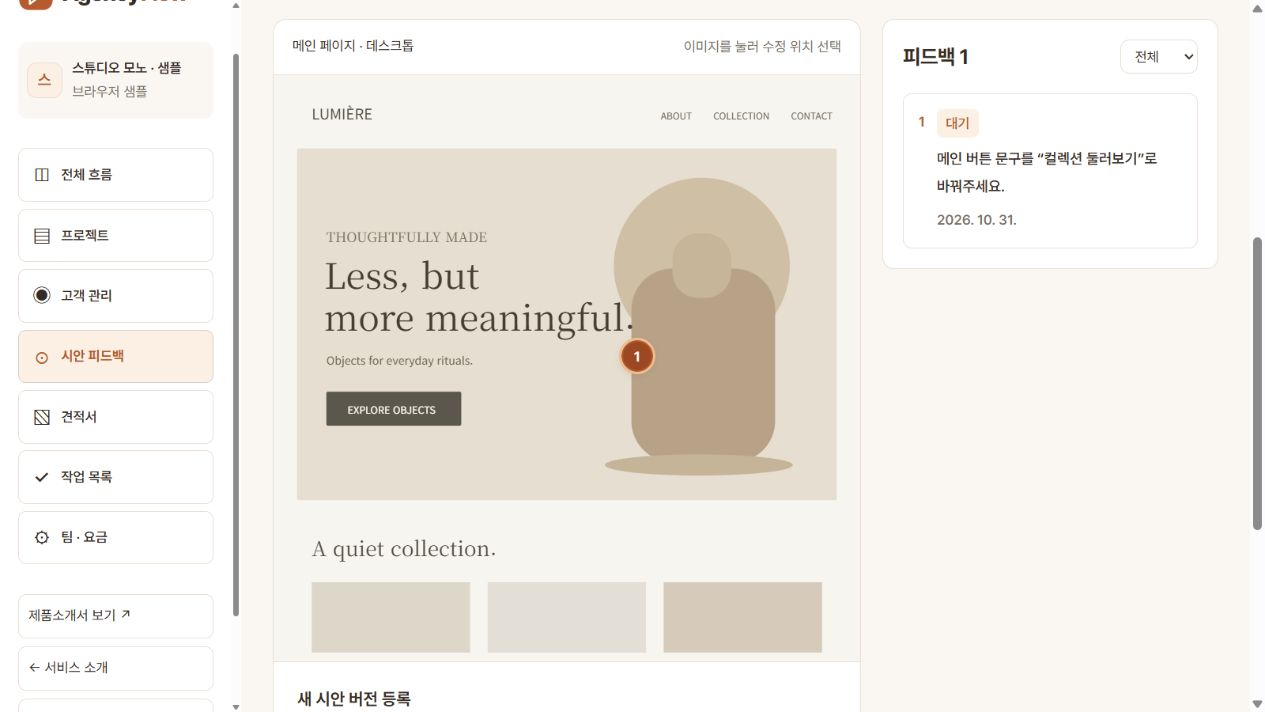
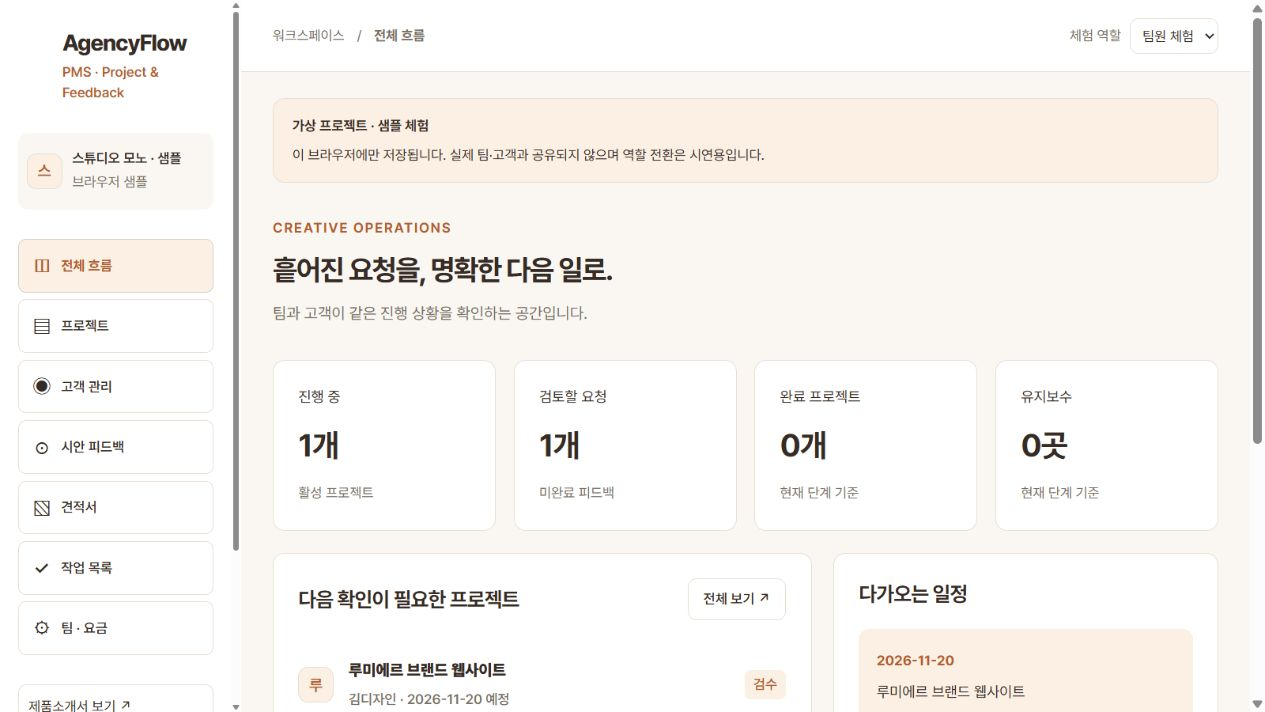
Label all products with ERP PMS CRM and Groupware categories

diff --git a/demos/weekly-report/workspace.js b/demos/weekly-report/workspace.js
@@ -30,14 +30,14 @@ const field=(name,label,type='text',value='',other='')=>`<label>${label}<input n
 function render(){
   if(!state){renderAuth();return;}
   const tabs=[['home','전체 업무','01'],['projects','고객 · 프로젝트','02'],['compose','새 보고서','03'],['reports','보고서 보관함','04'],['team','팀 · 권한','05'],['audit','변경 기록','06'],['help','사용 가이드','?']];
-  root.innerHTML=`<div class="shell" ${helpOpen?'inert':''}><aside class="rail"><a class="logo" href="/workspace"><img class="brand-image" src="/assets/flownote-logo.svg?v=3" alt="Flownote 로고" width="40" height="40"><span>flownote<small>고객 프로젝트 워크스페이스</small></span></a><div class="company"><span class="avatar">${e(state.company.name.slice(0,1))}</span><div><strong>${e(state.company.name)}</strong><small>${state.company.isDemo?'가상 자료 체험 회사':'로컬 저장 워크스페이스'}</small></div></div><nav>${tabs.map(([id,label,n])=>`<button data-nav="${id}" class="${view===id?'active':''}" ${id==='compose'&&!writer()?'disabled':''}><span>${n}</span>${label}${id==='reports'?`<i>${state.reports.length}</i>`:''}</button>`).join('')}</nav><div class="rail-bottom"><a class="button outline" href="https://flownote-studio.vercel.app/manuals/flownote-guide.pdf" target="_blank" rel="noopener noreferrer">제품소개서 보기 ↗</a><div class="storage-dot">SQLite에 실제 저장</div><p>로컬 운영판 · 외부 서비스 미연동<br>실제 고객 납품 검증 전</p><a href="/">기존 CSV 체험판 열기 ↗</a></div></aside><div class="main-area"><header class="workspace-bar"><span class="bar-crumb">워크스페이스 <i>/</i> <b>${tabs.find(t=>t[0]===view)?.[1]||'전체 업무'}</b></span><div><button class="help-search-trigger" data-action="help-open">⌕ 사용법 찾기 <kbd>?</kbd></button><span class="role-chip">${roleText[state.user.role]}</span><b>${e(state.user.name)}</b><button class="quiet" data-action="reload">새로고침</button><button class="quiet" data-action="logout">로그아웃</button></div></header><main class="page">
+  root.innerHTML=`<div class="shell" ${helpOpen?'inert':''}><aside class="rail"><a class="logo" href="/workspace"><img class="brand-image" src="/assets/flownote-logo.svg?v=3" alt="Flownote 로고" width="40" height="40"><span>Flownote<small>ERP · 고객·프로젝트 운영</small></span></a><div class="company"><span class="avatar">${e(state.company.name.slice(0,1))}</span><div><strong>${e(state.company.name)}</strong><small>${state.company.isDemo?'가상 자료 체험 회사':'로컬 저장 워크스페이스'}</small></div></div><nav>${tabs.map(([id,label,n])=>`<button data-nav="${id}" class="${view===id?'active':''}" ${id==='compose'&&!writer()?'disabled':''}><span>${n}</span>${label}${id==='reports'?`<i>${state.reports.length}</i>`:''}</button>`).join('')}</nav><div class="rail-bottom"><a class="button outline" href="https://flownote-studio.vercel.app/manuals/flownote-guide.pdf" target="_blank" rel="noopener noreferrer">제품소개서 보기 ↗</a><div class="storage-dot">SQLite에 실제 저장</div><p>로컬 운영판 · 외부 서비스 미연동<br>실제 고객 납품 검증 전</p><a href="/">기존 CSV 체험판 열기 ↗</a></div></aside><div class="main-area"><header class="workspace-bar"><span class="bar-crumb">워크스페이스 <i>/</i> <b>${tabs.find(t=>t[0]===view)?.[1]||'전체 업무'}</b></span><div><button class="help-search-trigger" data-action="help-open">⌕ 사용법 찾기 <kbd>?</kbd></button><span class="role-chip">${roleText[state.user.role]}</span><b>${e(state.user.name)}</b><button class="quiet" data-action="reload">새로고침</button><button class="quiet" data-action="logout">로그아웃</button></div></header><main class="page">
   ${state.company.isDemo?'<div class="sample-note"><b>샘플 회사 · 가상 데이터</b> 보고서 상태와 승인·저장 기능은 실제로 동작합니다. 고객 실적이 아닙니다. 체험 계정은 로그아웃하면 다시 접근할 수 없습니다.</div>':''}
   ${error?`<div class="alert error" role="alert">${e(error)}</div>`:''}${notice?`<div class="alert success" role="status">${e(notice)}</div>`:''}${busy?'<div class="busy" role="status">저장된 상태를 확인하고 있습니다…</div>':''}
   ${view==='home'?home():view==='projects'?projects():view==='compose'?compose():view==='reports'?reports():view==='team'?team():view==='help'?manual():audit()}
   <footer>FLOWNOTE / 고객별로 연결하고, 승인한 버전을 남깁니다.<span>광고비는 대행사의 매출·이익이 아닙니다. 전달 기록은 고객 수신 확인이 아닙니다.</span></footer></main></div></div><button class="guide-fab" data-action="help-open" ${helpOpen?'hidden':''}><span>?</span> 사용 가이드</button>${helpOpen?guidePanel():''}`;
 }
 function renderAuth(){
-  root.innerHTML=`<div class="auth-wrap"><section class="auth-story"><a class="logo" href="/"><img class="brand-image" src="/assets/flownote-logo.svg?v=3" alt="Flownote 로고" width="40" height="40"><span>flownote<small>고객 프로젝트 워크스페이스</small></span></a><span class="eyebrow">FROM DATA TO DELIVERY</span><h1>보고서만 만들고<br>끝내지 않도록.</h1><p>고객과 프로젝트를 연결하고,<br>검수한 보고서를 승인본으로 남기세요.</p><ol><li><b>01</b><span>누구의 자료인지 확인<strong>고객 · 프로젝트 · 캠페인 연결</strong></span></li><li><b>02</b><span>담당자가 검수하고 승인<strong>작성자와 검수자 역할 분리</strong></span></li><li><b>03</b><span>어떤 버전을 보냈는지 기록<strong>승인본 보관 · 변경 이력</strong></span></li></ol><small>로컬 서버에 실제 저장됩니다. 광고 API·메일 발송·회계 처리는 연결하지 않았습니다.</small></section><section class="auth-card"><div class="eyebrow">YOUR WORKSPACE</div><h2>${authMode==='login'?'작업을 이어가세요':'새 회사 공간 만들기'}</h2><p>${authMode==='login'?'저장된 고객과 보고서를 확인합니다.':'관리자 계정과 회사 공간을 함께 만듭니다.'}</p>${error?`<div class="alert error" role="alert">${e(error)}</div>`:''}<form id="auth-form">${authMode==='register'?field('company','회사 이름','text','','required maxlength="120"')+field('name','관리자 이름','text','','required maxlength="100"'):''}${field('email','이메일','email','','required autocomplete="username"')}${field('password','비밀번호','password','','required minlength="10" maxlength="256" autocomplete="'+(authMode==='login'?'current-password':'new-password')+'"')}<button class="button primary wide" ${busy?'disabled':''}>${busy?'확인 중…':authMode==='login'?'로그인':'회사 공간 만들기'}</button></form><button class="quiet switch-auth" data-action="auth-switch">${authMode==='login'?'처음 사용하시나요? 새 회사 만들기':'이미 계정이 있나요? 로그인'}</button><div class="auth-divider"><span>먼저 기능을 보고 싶다면</span></div><button class="button outline wide" data-action="demo" ${busy?'disabled':''}>가상 자료로 워크스페이스 체험</button><p class="auth-small">체험 회사는 실행할 때마다 새로 만듭니다. 실제 업무용은 회사 계정을 생성하세요. 이메일 소유 확인·계정 복구는 아직 제공하지 않습니다.</p><button class="quiet wide" data-action="help-open">처음 사용하시나요? 사용 가이드 보기 →</button><a class="back-link" href="/">← CSV 보고서 체험판으로 돌아가기</a></section></div>${helpOpen?guidePanel():''}`;
+  root.innerHTML=`<div class="auth-wrap"><section class="auth-story"><a class="logo" href="/"><img class="brand-image" src="/assets/flownote-logo.svg?v=3" alt="Flownote 로고" width="40" height="40"><span>Flownote<small>ERP · 고객·프로젝트 운영</small></span></a><span class="eyebrow">FROM DATA TO DELIVERY</span><h1>보고서만 만들고<br>끝내지 않도록.</h1><p>고객과 프로젝트를 연결하고,<br>검수한 보고서를 승인본으로 남기세요.</p><ol><li><b>01</b><span>누구의 자료인지 확인<strong>고객 · 프로젝트 · 캠페인 연결</strong></span></li><li><b>02</b><span>담당자가 검수하고 승인<strong>작성자와 검수자 역할 분리</strong></span></li><li><b>03</b><span>어떤 버전을 보냈는지 기록<strong>승인본 보관 · 변경 이력</strong></span></li></ol><small>로컬 서버에 실제 저장됩니다. 광고 API·메일 발송·회계 처리는 연결하지 않았습니다.</small></section><section class="auth-card"><div class="eyebrow">YOUR WORKSPACE</div><h2>${authMode==='login'?'작업을 이어가세요':'새 회사 공간 만들기'}</h2><p>${authMode==='login'?'저장된 고객과 보고서를 확인합니다.':'관리자 계정과 회사 공간을 함께 만듭니다.'}</p>${error?`<div class="alert error" role="alert">${e(error)}</div>`:''}<form id="auth-form">${authMode==='register'?field('company','회사 이름','text','','required maxlength="120"')+field('name','관리자 이름','text','','required maxlength="100"'):''}${field('email','이메일','email','','required autocomplete="username"')}${field('password','비밀번호','password','','required minlength="10" maxlength="256" autocomplete="'+(authMode==='login'?'current-password':'new-password')+'"')}<button class="button primary wide" ${busy?'disabled':''}>${busy?'확인 중…':authMode==='login'?'로그인':'회사 공간 만들기'}</button></form><button class="quiet switch-auth" data-action="auth-switch">${authMode==='login'?'처음 사용하시나요? 새 회사 만들기':'이미 계정이 있나요? 로그인'}</button><div class="auth-divider"><span>먼저 기능을 보고 싶다면</span></div><button class="button outline wide" data-action="demo" ${busy?'disabled':''}>가상 자료로 워크스페이스 체험</button><p class="auth-small">체험 회사는 실행할 때마다 새로 만듭니다. 실제 업무용은 회사 계정을 생성하세요. 이메일 소유 확인·계정 복구는 아직 제공하지 않습니다.</p><button class="quiet wide" data-action="help-open">처음 사용하시나요? 사용 가이드 보기 →</button><a class="back-link" href="/">← CSV 보고서 체험판으로 돌아가기</a></section></div>${helpOpen?guidePanel():''}`;
 }
 function home(){
   const latest=latestReports(),pending=latest.filter(r=>r.status==='IN_REVIEW'),approved=latest.filter(r=>r.status==='APPROVED'),delivered=latest.filter(r=>r.status==='DELIVERED');

diff --git a/agencyflow/components/studio-product-home.tsx b/agencyflow/components/studio-product-home.tsx
@@ -68,7 +68,7 @@ export default function StudioProductHome({ kind }: { kind: ProductKind }) {
       <header className="public-header">
         <a className="af-brand" href={studioOrigin + "/" + kind + "/"}>
           <img src={"/product-assets/" + kind + "-icon.svg"} alt="" />
-          {p.name}
+          <span className="brand-copy">{p.name}<small>{p.category}</small></span>
         </a>
         <nav>
           <a href={studioOrigin + "/"}>ENOTE-LABS</a>

diff --git a/agencyflow/components/studio-workspace.tsx b/agencyflow/components/studio-workspace.tsx
@@ -352,7 +352,7 @@ export default function StudioWorkspace({ kind }: { kind: ProductKind }) {
       <aside className="app-rail">
         <a className="af-brand" href={"/" + kind + "/"}>
           <img src={"/product-assets/" + kind + "-icon.svg"} alt="" />
-          {info.name}
+          <span className="brand-copy">{info.name}<small>{info.category}</small></span>
         </a>
         <div className="workspace-name">
           <span className="avatar">

diff --git a/agencyflow/app/workspace/workspace.tsx b/agencyflow/app/workspace/workspace.tsx
@@ -377,7 +377,7 @@ export default function Workspace() {
       <aside className="app-rail">
         <a className="af-brand" href="/">
           <img src="/favicon.svg" alt="" />
-          Agency<span>Flow</span>
+          <span className="brand-copy">AgencyFlow<small>PMS · Project &amp; Feedback</small></span>
         </a>
         <div className="workspace-name">
           <span className="avatar">{org?.name?.slice(0, 1) || "A"}</span>

diff --git a/agencyflow/app/globals.css b/agencyflow/app/globals.css
@@ -243,6 +243,22 @@ dd {
   color: var(--accent);
   margin-left: -8px;
 }
+.af-brand > .brand-copy {
+  margin-left: 0;
+  color: var(--ink);
+  min-width: 0;
+  line-height: 1.35;
+  white-space: normal;
+}
+.brand-copy small {
+  display: block;
+  margin-top: 3px;
+  font-size: 14px;
+  font-weight: 550;
+  letter-spacing: 0;
+  line-height: 1.5;
+  color: var(--accent);
+}
 .public-header {
   max-width: 1280px;
   margin: auto;

diff --git a/agencyflow/lib/studio-domain.ts b/agencyflow/lib/studio-domain.ts
@@ -2,6 +2,7 @@ export type ProductKind = "follonote" | "crewmemo";
 export const productInfo = {
   follonote: {
     name: "Follonote",
+    category: "CRM",
     ko: "Follonote",
     color: "#c4541b",
     tag: "SALES CRM",
@@ -10,6 +11,7 @@ export const productInfo = {
   },
   crewmemo: {
     name: "Crewmemo",
+    category: "Groupware",
     ko: "Crewmemo",
     color: "#c4541b",
     tag: "TEAM GROUPWARE",

diff --git a/agencyflow/app/page.tsx b/agencyflow/app/page.tsx
@@ -7,7 +7,7 @@ export default function Home() {
       <header className="public-header">
         <a className="af-brand" href="/">
           <img src="/favicon.svg" alt="" />
-          Agency<span>Flow</span>
+          <span className="brand-copy">AgencyFlow<small>PMS · Project &amp; Feedback</small></span>
         </a>
         <nav>
           <a href="#workflow">어떻게 쓰나요?</a>

diff --git a/docs/enote-design-guide.md b/docs/enote-design-guide.md
@@ -24,3 +24,5 @@ Mobile marketing panels show the actual product screen before explanatory copy. 
 Four public `/manuals/{product}-guide.pdf` documents contain product introduction, getting started, a page for each major workspace screen, and current availability/limitations. Buttons labelled `제품소개서 보기` open them in a new tab from the company feature sections and each workspace. Documents use embedded Pretendard and 2026-10-30 availability statements.
 
 Authoring: bundled Python + reportlab, pypdf, pypdfium2, fonttools, brotli, Pillow. Actual sample UI captures live in `docs/product-screens/`; run `scripts/generate-product-guides.py`, inspect all rendered contact sheets in `tmp/pdfs/`, then rebuild Next.js and the company target. Published PDFs live in `agencyflow/public/manuals/`; local delivery copies in `output/pdf/`. App functionality is not promoted to complete merely by documenting it.
+
+Product labels: Flownote — ERP; AgencyFlow — PMS (Project & Feedback); Follonote — CRM; Crewmemo — Groupware. Show the category below the product wordmark and in the company product tabs.
